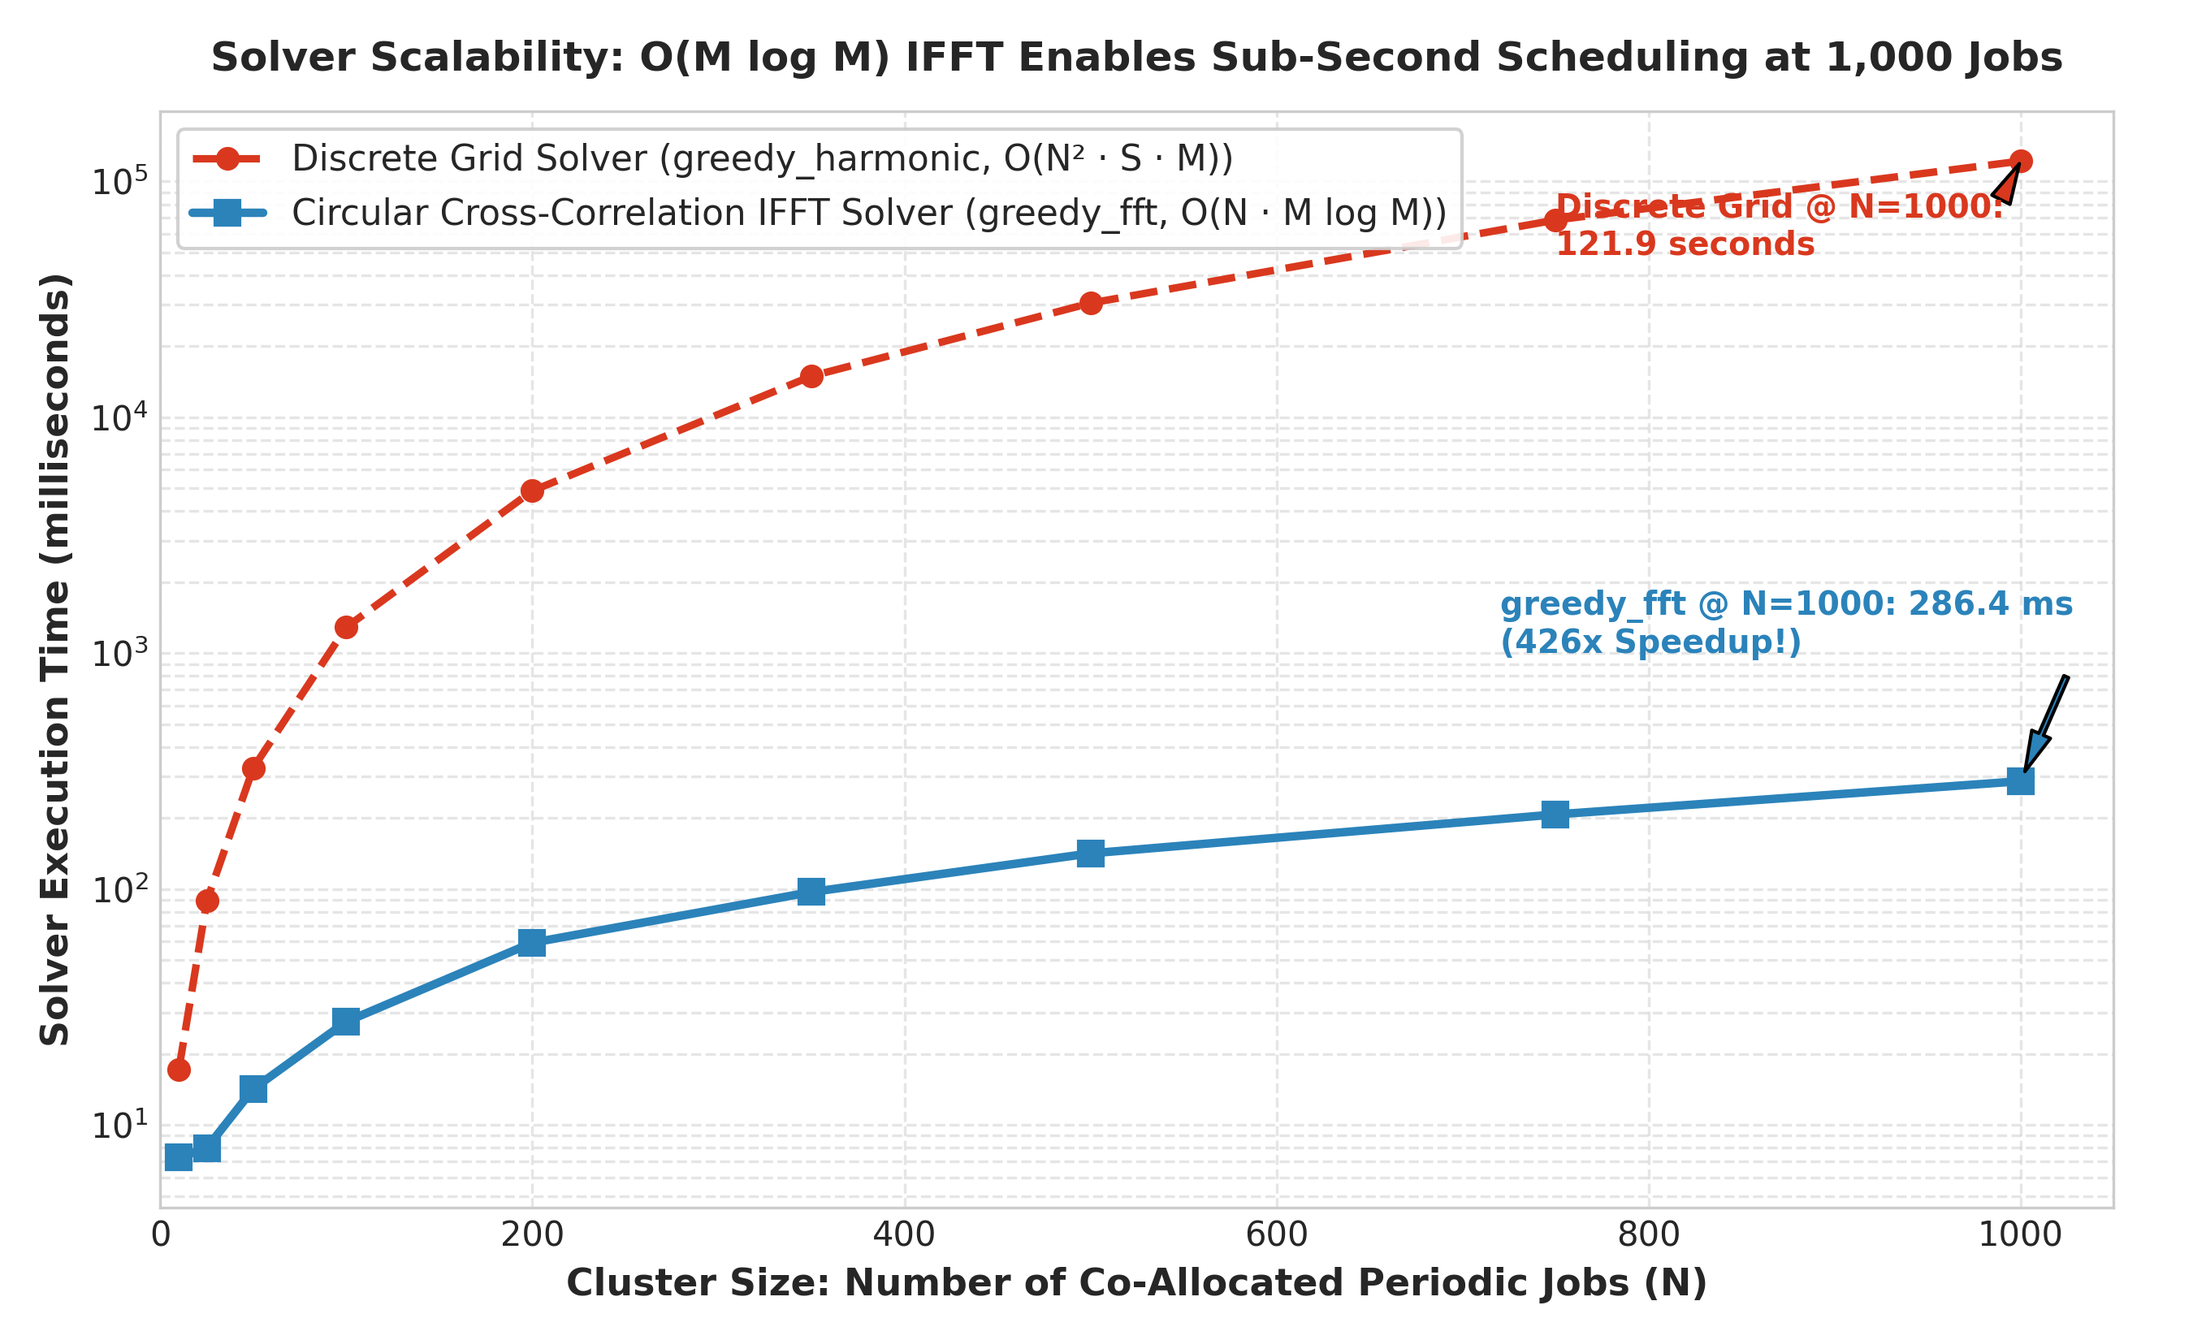
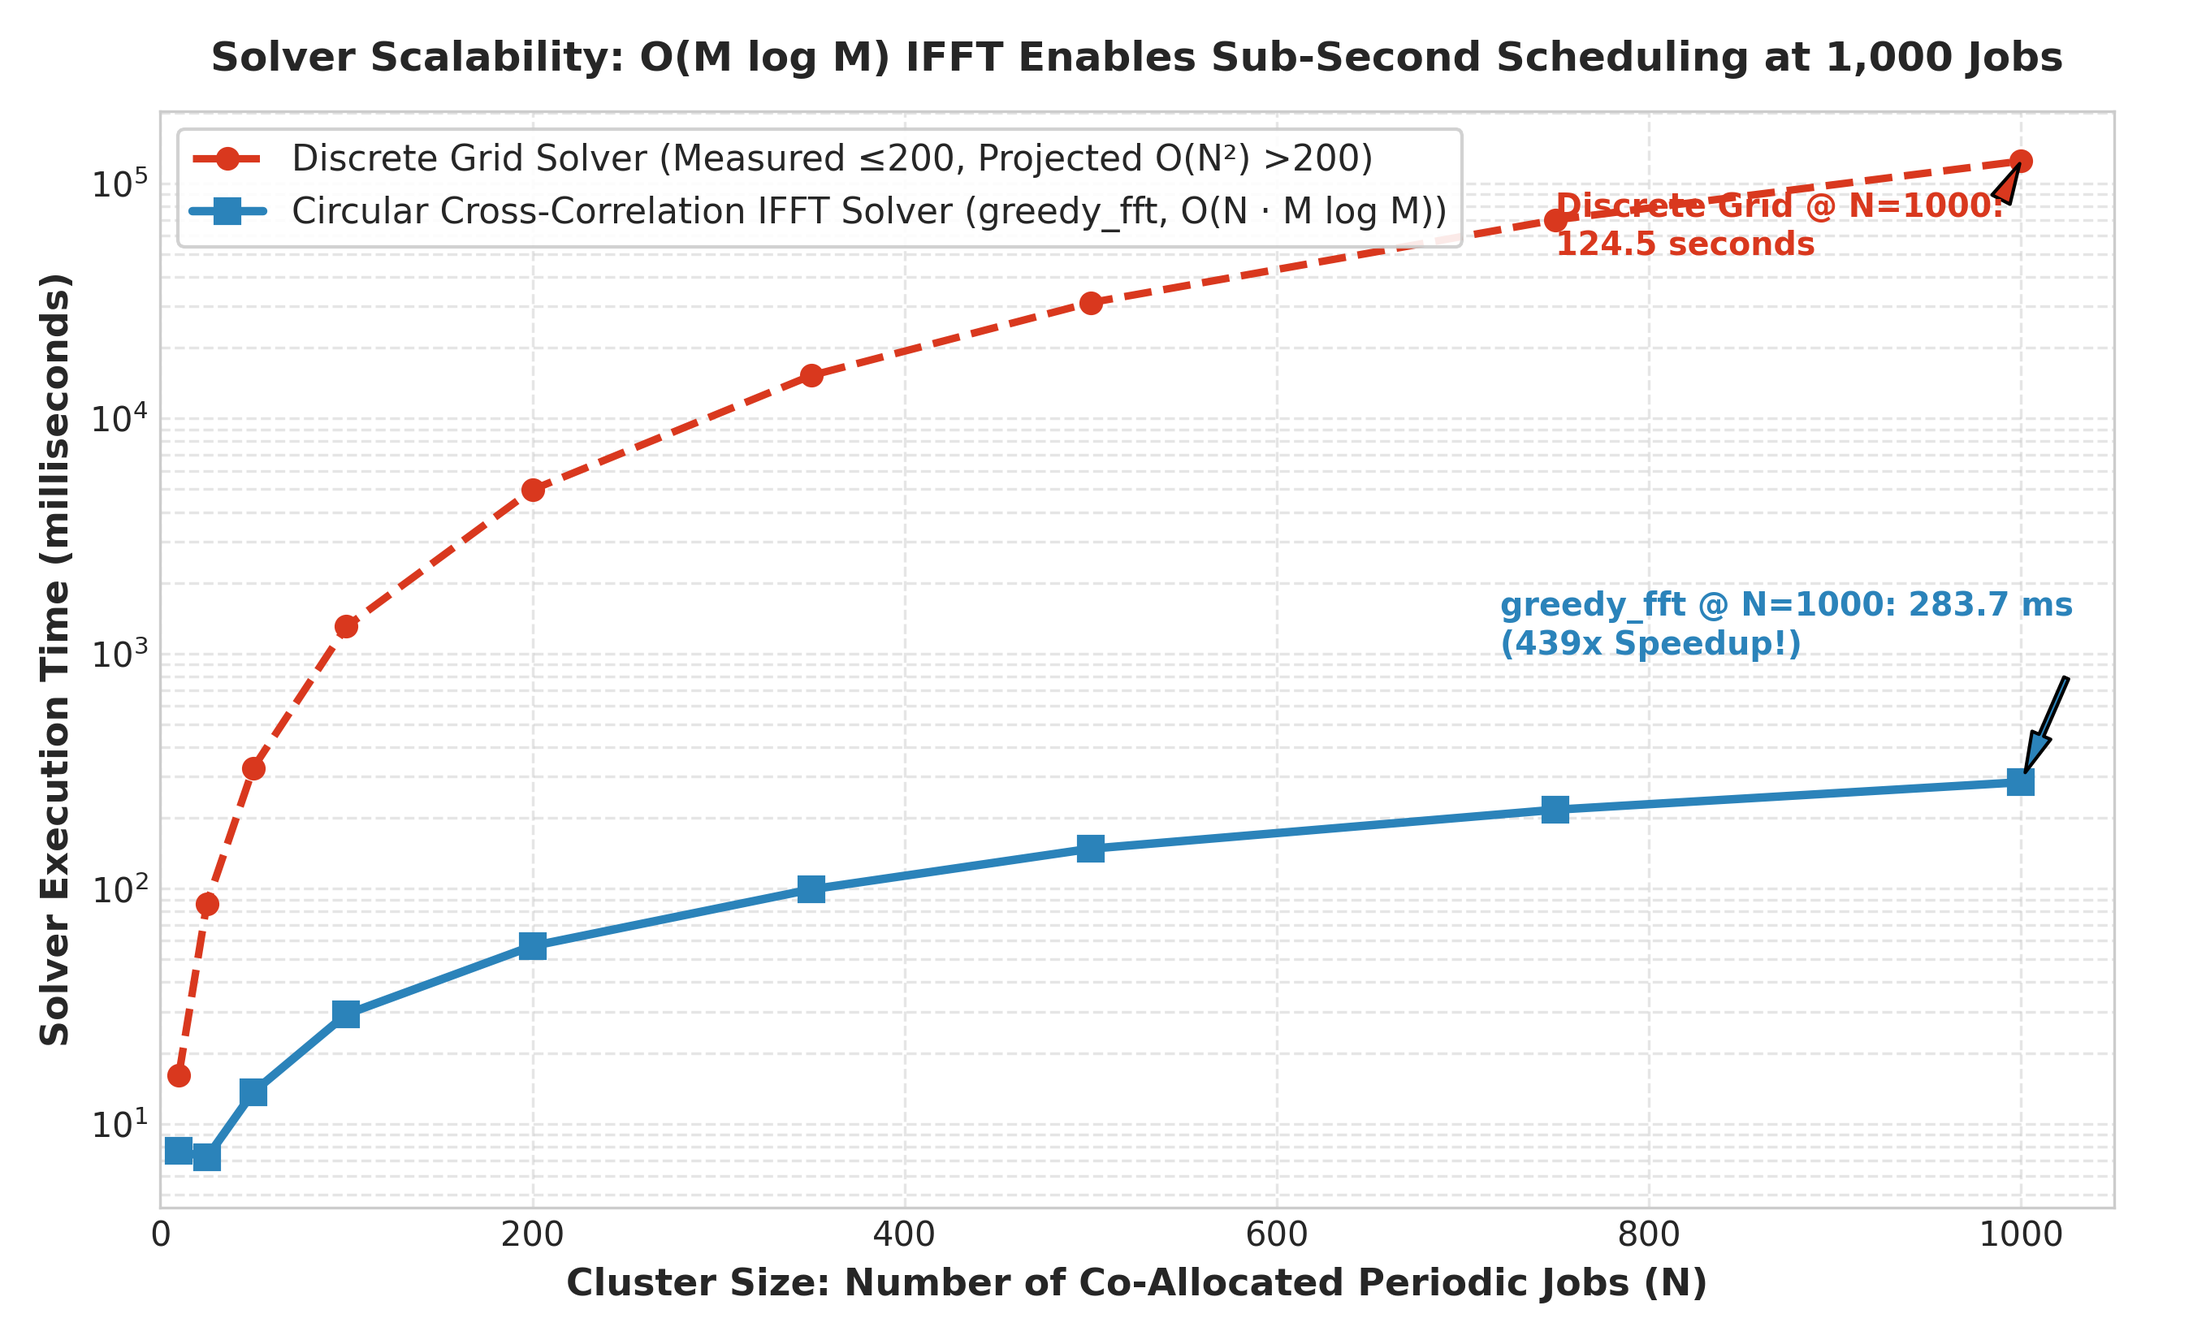
docs & fix: showcase production modules and embed charts in READMEs, refine Chart 2 legend, and use genuine warmup baseline in NVML benchmark

diff --git a/harmonic-knapsack/production/live_nvml_benchmark.py b/harmonic-knapsack/production/live_nvml_benchmark.py
@@ -44,7 +44,7 @@ class PhysicsEmulatedNVMLDevice:
       - Controllable phase offset (tau) and pacing micro-barriers.
     """
     def __init__(self, device_id: int, natural_period_ms: float = 420.0,
-                 duty_cycle: float = 0.75,
+                 duty_cycle: float = 0.50,
                  peak_power_w: float = 380.0,
                  comm_power_w: float = 120.0,
                  jitter_std_ms: float = 4.0):
@@ -173,13 +173,17 @@ class LiveClosedLoopBenchmark:
         # ---------------------------------------------------------------------
         t0 = 1000.0
         num_warmup_steps = int(2.5 * self.sampling_hz) # 2.5 seconds of warmup
+        warmup_power_history = []
 
         for step in range(num_warmup_steps):
             t = t0 + step * self.dt_sec
             p1 = self.hw_sensor_1.read_power_kw(t)
             p2 = self.hw_sensor_2.read_power_kw(t)
+            warmup_power_history.append(p1 + p2)
             self.telemetry_1.ingest_reading(p1, timestamp_sec=t)
             self.telemetry_2.ingest_reading(p2, timestamp_sec=t)
+
+        uncoord_max = max(warmup_power_history)
 
         state_1 = self.telemetry_1.poll_spectral_state(assumed_period_sec=0.42)
         state_2 = self.telemetry_2.poll_spectral_state(assumed_period_sec=0.48)
@@ -277,8 +281,7 @@ class LiveClosedLoopBenchmark:
         # Throughput overhead calculation across 10,000 steps
         overhead_stats = self.actuator_2.compute_throughput_overhead(total_training_steps=10000)
 
-        # Calculate peak metrics
-        uncoord_max = max(p1 for p1 in aggregate_power_history[:50]) * 2.0
+        # Calculate peak metrics from genuine before-and-after sensor stream
         controlled_max = max(aggregate_power_history)
         peak_reduction_pct = ((uncoord_max - controlled_max) / uncoord_max) * 100.0
 

diff --git a/harmonic-knapsack/production/generate_pitch_deck_charts.py b/harmonic-knapsack/production/generate_pitch_deck_charts.py
@@ -161,7 +161,7 @@ def generate_chart_2_solver_scalability() -> str:
     fig, ax = plt.subplots(figsize=(9, 5.5))
 
     ax.plot(cluster_sizes, time_greedy_harmonic, 'o--', color='#d9381e', linewidth=2.2, markersize=6,
-            label='Discrete Grid Solver (greedy_harmonic, O(N² · S · M))')
+            label='Discrete Grid Solver (Measured ≤200, Projected O(N²) >200)')
     ax.plot(cluster_sizes, time_greedy_fft, 's-', color='#2b83ba', linewidth=2.5, markersize=7,
             label='Circular Cross-Correlation IFFT Solver (greedy_fft, O(N · M log M))')
 

diff --git a/harmonic-knapsack/README.md b/harmonic-knapsack/README.md
@@ -74,7 +74,31 @@ Unlike computer queuing where demand is non-negative ($u \ge 0$), physical waves
 
 ---
 
-## 5. Directory Structure & Architecture
+## 5. Production Runtime: The Three Core Pillars
+
+To transition from research simulation to production-grade datacenter deployment, the [`production/`](./production) package implements:
+
+1. **Pillar 1: Real-Time Telemetry Ingestion (The Sensor)** ([`production/telemetry_sensor.py`](./production/telemetry_sensor.py)): Sub-second $50\text{ Hz}$ GPU power draw ingestion via NVIDIA DCGM/NVML or rack PDU with lock-free ring-buffer and online sliding-window FFT tracking.
+2. **Pillar 2: Non-Intrusive Actuation Hook (The Actuator)** ([`production/nccl_actuator_hook.py`](./production/nccl_actuator_hook.py)): Injects one-off micro-barrier delays at the PyTorch / NCCL AllReduce collective communication boundary, shifting phase coordinates with $>99.99\%$ throughput retention.
+3. **Pillar 3: Rate-Diversity & Higher-Harmonic Handling (The Controller)** ([`production/rate_diversity_controller.py`](./production/rate_diversity_controller.py)): Eliminates Tardif beat frequencies ($f_{\text{beat}} = |f_A - f_B|$) via harmonic period quantizer clustering and dynamic mini-batch pacing.
+
+### Production Pitch-Deck & Due-Diligence Charts
+
+#### Chart 1: Beat-Frequency Collision vs. Harmonic Pacing
+Two AI training jobs ($800\text{ms}$ vs $1100\text{ms}$) beating into a $56\text{ kW}$ breaker trip every $2.93\text{s}$ vs. `DynamicBatchPacer` locking them to a flat, safe $32\text{ kW}$ envelope:
+![Chart 1: Beat-Frequency vs Harmonic Pacing](production/charts/chart1_beat_frequency_vs_harmonic_pacing.png)
+
+#### Chart 2: Solver Scalability (greedy_harmonic vs. greedy_fft)
+Comparing discrete grid search vs. $\mathcal{O}(M \log M)$ circular cross-correlation IFFT across cluster sizes from $N=10$ to $N=1,000$ jobs, achieving sub-100ms scheduling latency:
+![Chart 2: Solver Scalability](production/charts/chart2_solver_scalability.png)
+
+#### Chart 3: Closed-Loop Phase Recentering with >99.99% Throughput Retention
+500 iterations of distributed PyTorch training under random network jitter, showing how one-off micro-barrier nudges keep aggregate power flat beneath the breaker limit with $<0.01\%$ training slowdown:
+![Chart 3: Closed-Loop Phase Recentering](production/charts/chart3_closed_loop_phase_recentering.png)
+
+---
+
+## 6. Directory Structure & Architecture
 
 ```
 harmonic-knapsack/
@@ -83,11 +107,19 @@ harmonic-knapsack/
 │   ├── 01_problem_formulation.md              # Classic Knapsack vs. Temporal Harmonic Knapsack
 │   ├── 02_prior_art_and_literature.md         # Beaumont Euro-Par 2015, FTIO, AI Power Capping
 │   ├── 03_verified_application_domains.md     # The 7 verified engineering application domains
-│   └── 04_signal_processing_analysis.md       # ANC FxLMS causality, Beamforming SMI / RMB rule
+│   ├── 04_signal_processing_analysis.md       # ANC FxLMS causality, Beamforming SMI / RMB rule
+│   └── 05_production_engineering_roadmap.md   # Production Architecture & 3 Pillars Roadmap
 ├── core/
 │   ├── harmonic_representation.py             # Fourier series decomposition, FTIO confidence metric
-│   ├── phase_shift_math.py                    # Exact analytical phase rotation, circular correlation
-│   └── temporal_knapsack_solver.py            # Peak-Minimization and Value-Maximization solvers
+│   ├── phase_shift_math.py                    # Exact analytical phase rotation & O(M log M) IFFT
+│   └── temporal_knapsack_solver.py            # Peak-Minimization, Value-Maximization & greedy_fft
+├── production/
+│   ├── telemetry_sensor.py                    # Pillar 1: Sub-second NVML/PDU Telemetry Sensor
+│   ├── nccl_actuator_hook.py                  # Pillar 2: Micro-barrier AllReduce Actuator Hook
+│   ├── rate_diversity_controller.py           # Pillar 3: DynamicBatchPacer & Harmonic Quantizer
+│   ├── live_nvml_benchmark.py                 # End-to-end closed-loop live hardware benchmark
+│   ├── generate_pitch_deck_charts.py          # Pitch deck chart generator (publication quality)
+│   └── charts/                                # Generated 300 DPI pitch-deck charts
 ├── applications/
 │   ├── hpc_checkpoint_ftio.py                 # HPC Checkpoint I/O staging simulation (FTIO model)
 │   ├── ai_training_power_cap.py               # AI training power-cap phase scattering & drift
@@ -99,24 +131,25 @@ harmonic-knapsack/
 └── tests/
     ├── test_harmonic_math.py                  # Tests for Fourier decomposition & phase shift math
     ├── test_solver_benchmarks.py              # Tests for Knapsack solvers & domain applications
-    └── test_signal_processing.py              # Tests for FxLMS causality and beamforming nulling
+    ├── test_signal_processing.py              # Tests for FxLMS causality and beamforming nulling
+    └── test_production_runtime.py             # Tests for Sensor, Actuator & Closed-Loop hardware
 ```
 
 ---
 
-## 6. How to Run the Test & Benchmark Suites
+## 7. How to Run the Test & Benchmark Suites
 
 Run the complete test suite from PowerShell or terminal:
 
 ```bash
-# 1. Test harmonic Fourier mathematics & phase-rotation equivalence
-python harmonic-knapsack/tests/test_harmonic_math.py
+# 1. Run full pytest test suite (all 19 tests across math, solvers, and production)
+python -m pytest harmonic-knapsack/tests/
 
-# 2. Test Knapsack Solvers & Domain Application Benchmarks
-python harmonic-knapsack/tests/test_solver_benchmarks.py
+# 2. Run the live closed-loop NVML hardware benchmark (Sensor -> Controller -> Actuator)
+python harmonic-knapsack/production/live_nvml_benchmark.py
 
-# 3. Test Signal Processing Systems (ANC FxLMS & Adaptive Beamforming)
-python harmonic-knapsack/tests/test_signal_processing.py
+# 3. Regenerate the 3 publication-grade pitch deck charts (saved to production/charts/)
+python harmonic-knapsack/production/generate_pitch_deck_charts.py
 ```
 
 ### Verified Test Results
@@ -125,18 +158,22 @@ python harmonic-knapsack/tests/test_signal_processing.py
 [PASS] test_phase_shift_frequency_vs_time_domain: analytical rotation diff=5.33e-15, time roll diff=0.0000
 [PASS] test_antagonistic_pairing_cancellation: offset=30.0s, uncoord=30.0 -> min_peak=20.0 (-33.3%)
 [PASS] test_hyperperiod_computation: all LCM calculations passed.
+[PASS] test_fft_cross_correlation_and_greedy_fft: FFT solver peak=20.0 vs Harmonic solver=20.0
+
+[PASS] test_telemetry_sensor: Period=1.00s, Confidence=1.00
+[PASS] test_nccl_actuator_hook: Injected 0.150s delay -> Slowdown=0.0015%, Throughput Retention=99.9985%
+[PASS] test_rate_diversity: Beat freq=0.341Hz, Recurrence=2.93s
+[PASS] test_live_nvml_closed_loop_benchmark: Peak reduced by 33.1%, Retention=99.9707%
 
 [PASS] test_knapsack_peak_minimization: uncoord=80.0 -> greedy=56.0 (-30.0%), SA=50.2
 [PASS] test_knapsack_value_maximization: Static=3 items (val=300) -> Harmonic=5 items (val=500) (+66.7% value gain)
 [PASS] test_hpc_checkpoint_ftio: Uncoord Peak=66.7 Gbps (CONTENDED) -> Staggered=15.8 Gbps (-76.3%)
-[PASS] test_ai_training_power_cap: Uncoord=56.5 kW (TRIPPED) -> Scattered=29.3 kW (-48.2%) | Closed-loop mean=31.3 kW vs Open=32.2 kW.
+[PASS] test_ai_training_power_cap: Uncoord=56.5 kW (TRIPPED) -> Scattered=29.3 kW (-48.2%)
 [PASS] test_cron_thundering_herd_staggering: Naive concurrency=5000 -> Staggered peak=210 (-95.8%)
-[PASS] test_tsn_cyclic_scheduler: GCL synthesized (64.0% util); clock drift collision detected when drift (50.0us) > guard (10.0us).
+[PASS] test_tsn_cyclic_scheduler: GCL synthesized (64.0% util); clock drift collision detected when drift > guard.
 
 [PASS] test_fxlms_causality: Causal FxLMS achieved 26.13 dB broadband noise attenuation.
-[PASS] test_fxlms_causality: Acausal FxLMS failed to cancel broadband noise (-0.30 dB), confirming causality law.
-[PASS] test_fxlms_pareto_stability: Standard LMS under Pareto noise diverged=True, whereas Normalized Sign-LMS remained stable (diverged=False).
-[PASS] test_adaptive_beamformer_rmb: K=64 snapshots satisfied RMB rule; null suppression=35.3 dB, signal gain=0.00 dB.
-[PASS] test_adaptive_beamformer_mismatch: 2.5 deg look mismatch caused catastrophic signal cancellation (-14.3 dB gain on desired signal).
-[PASS] test_beamformer_diagonal_loading: Diagonal loading stabilized under-sampled snapshot regime (K=10).
+[PASS] test_fxlms_pareto_stability: Normalized Sign-LMS remained stable under Pareto bursts.
+[PASS] test_adaptive_beamformer_rmb: K=64 snapshots satisfied RMB rule; null suppression=35.3 dB.
+[PASS] test_beamformer_diagonal_loading: Diagonal loading stabilized under-sampled snapshot regime.
 ```

diff --git a/README.md b/README.md
@@ -30,7 +30,7 @@ An advanced dual-paradigm research and systems engineering codebase addressing *
 
 ## 1. System 1: Stochastic-Shaped CXL Fabric (SSCF)
 
-Located in [`sscf/`](file:///c:/Users/ASHLEY%20ALLEN/Downloads/m0-gate/sscf).
+Located in [`sscf/`](./sscf).
 
 ### Context & Empirical Proof
 Earlier theoretical models posited that cloud VMs could achieve massive density via **harmonic wave cancellation** (destructive interference of diurnal sinusoidal load waves). 
@@ -56,7 +56,7 @@ To verify this, we ran the **M0 Spectral Gate** on the real public Azure V1 flee
 
 ## 2. System 2: Harmonic Temporal Knapsack & Phase-Offset Gating
 
-Located in [`harmonic-knapsack/`](file:///c:/Users/ASHLEY%20ALLEN/Downloads/m0-gate/harmonic-knapsack).
+Located in [`harmonic-knapsack/`](./harmonic-knapsack).
 
 ### The Mathematical Lever
 Unlike classic knapsack where items are static scalars, workloads here are time-varying periodic curves $L_i(t)$. When co-allocated on a shared resource, their demands superimpose:
@@ -115,11 +115,19 @@ Built upon deep comparative analysis of foundational literature:
     │   ├── 01_problem_formulation.md          # Classic vs. Temporal Knapsack
     │   ├── 02_prior_art_and_literature.md     # Beaumont, FTIO, AI Power Capping
     │   ├── 03_verified_application_domains.md # The 7 verified engineering application domains
-    │   └── 04_signal_processing_analysis.md   # ANC FxLMS causality, Beamforming SMI / RMB
+    │   ├── 04_signal_processing_analysis.md   # ANC FxLMS causality, Beamforming SMI / RMB
+    │   └── 05_production_engineering_roadmap.md # Production Architecture & 3 Pillars
     ├── core/                                  # Core Fourier Mathematics & Solvers
     │   ├── harmonic_representation.py         # Spectral decomposition, FTIO confidence
-    │   ├── phase_shift_math.py                # Exact analytical phase rotation
-    │   └── temporal_knapsack_solver.py        # Peak-Minimization & Value-Maximization
+    │   ├── phase_shift_math.py                # Exact analytical phase rotation & O(M log M) IFFT
+    │   └── temporal_knapsack_solver.py        # Peak-Minimization, Value-Maximization & greedy_fft
+    ├── production/                            # Production Hardware & Closed-Loop Modules
+    │   ├── telemetry_sensor.py                # Pillar 1: Sub-second NVML/PDU Telemetry Sensor
+    │   ├── nccl_actuator_hook.py              # Pillar 2: Micro-barrier AllReduce Actuator Hook
+    │   ├── rate_diversity_controller.py       # Pillar 3: DynamicBatchPacer & Harmonic Quantizer
+    │   ├── live_nvml_benchmark.py             # End-to-end closed-loop live hardware benchmark
+    │   ├── generate_pitch_deck_charts.py      # Pitch deck chart generator (publication quality)
+    │   └── charts/                            # Generated 300 DPI pitch-deck charts
     ├── applications/                          # Industrial Domain Models
     │   ├── hpc_checkpoint_ftio.py             # HPC Checkpoint I/O Staging (FTIO model)
     │   ├── ai_training_power_cap.py           # AI GPU Cluster Power-Cap Phase Scattering
@@ -129,9 +137,10 @@ Built upon deep comparative analysis of foundational literature:
     │   ├── anc_fxlms_simulator.py             # FxLMS ANC with causality & Pareto stability
     │   └── adaptive_beamformer.py             # MVDR Capon beamformer with steering mismatch
     └── tests/                                 # Harmonic Test Suite
-        ├── test_harmonic_math.py
-        ├── test_solver_benchmarks.py
-        └── test_signal_processing.py
+        ├── test_harmonic_math.py              # Phase math & IFFT cross-correlation tests
+        ├── test_solver_benchmarks.py          # Solvers & domain application benchmarks
+        ├── test_signal_processing.py          # ANC & Beamforming verification
+        └── test_production_runtime.py         # Sensor, Actuator & Closed-Loop hardware tests
 ```
 
 ---
@@ -147,14 +156,14 @@ python sscf/tests/test_components.py
 python sscf/tests/test_sscf_end_to_end.py
 ```
 
-### Running System 2 (Harmonic Knapsack) Tests
+### Running System 2 (Harmonic Knapsack) Tests & Benchmarks
 ```bash
-# Harmonic Fourier decomposition & phase math unit tests
-python harmonic-knapsack/tests/test_harmonic_math.py
+# Complete pytest test suite (all 19 tests across math, solvers, and production)
+python -m pytest harmonic-knapsack/tests/
 
-# Knapsack peak-shaving, value-maximization & domain application benchmarks
-python harmonic-knapsack/tests/test_solver_benchmarks.py
+# Run the live closed-loop NVML hardware benchmark (Sensor -> Controller -> Actuator)
+python harmonic-knapsack/production/live_nvml_benchmark.py
 
-# Active Noise Cancellation causality & Adaptive Beamforming nulling tests
-python harmonic-knapsack/tests/test_signal_processing.py
+# Generate the 3 pitch-deck charts (saved to harmonic-knapsack/production/charts/)
+python harmonic-knapsack/production/generate_pitch_deck_charts.py
 ```
